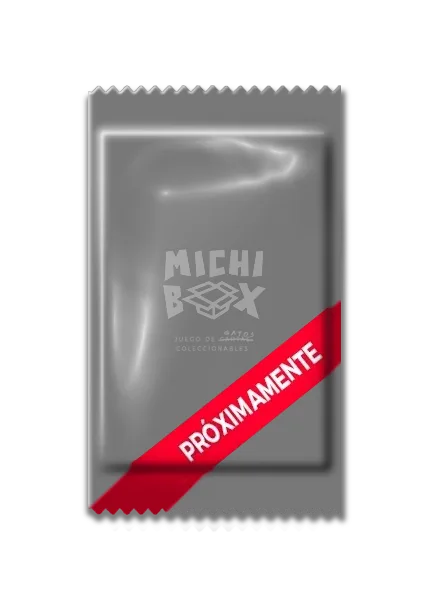
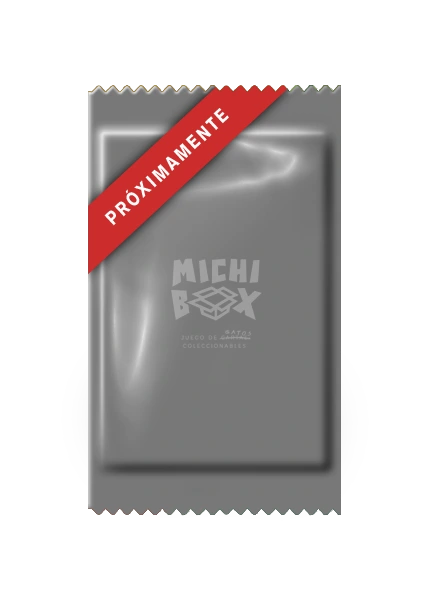
vs_prox

Changed region(s): [[0.1818, 0.12, 0.8182, 0.87], [0.3636, 0.42, 0.6364, 0.54]]

diff --git a/galeria.html b/galeria.html
@@ -1150,7 +1150,7 @@
         <button class="carruseldeexpansiones-btn prev" onclick="moverCarruseldeExpansiones(-1)">‹</button>
         <div class="carruseldeexpansiones">
           <a href="#MICHIBOX001" onclick="cerrarVentanaExpansiones()" data-lazy="true"  class="carruseldeexpansiones-item lazy-michi" style="background-image: url(./assets/expansion001_sobre.webp);">  </a>
-          <a href="#MICHIBOX002" onclick="cerrarVentanaExpansiones()" data-lazy="true"  class="carruseldeexpansiones-item lazy-michi" style="background-image: url(./assets/expansion002_sobre.webp);">  </a>
+          <a href="#MICHIBOX002" onclick="cerrarVentanaExpansiones()" data-lazy="true"  class="carruseldeexpansiones-item lazy-michi" style="background-image: url(./assets/expansion002_sobre_proximamente.webp);">  </a>
           <a href="#MICHIBOX003" onclick="cerrarVentanaExpansiones()"  data-lazy="true"  class="carruseldeexpansiones-item lazy-michi" style="background-image: url(./assets/expansion_proximamente_sobre.webp);">  </a>
         </div>
     <button class="carruseldeexpansiones-btn next" onclick="moverCarruseldeExpansiones(1)">›</button>
